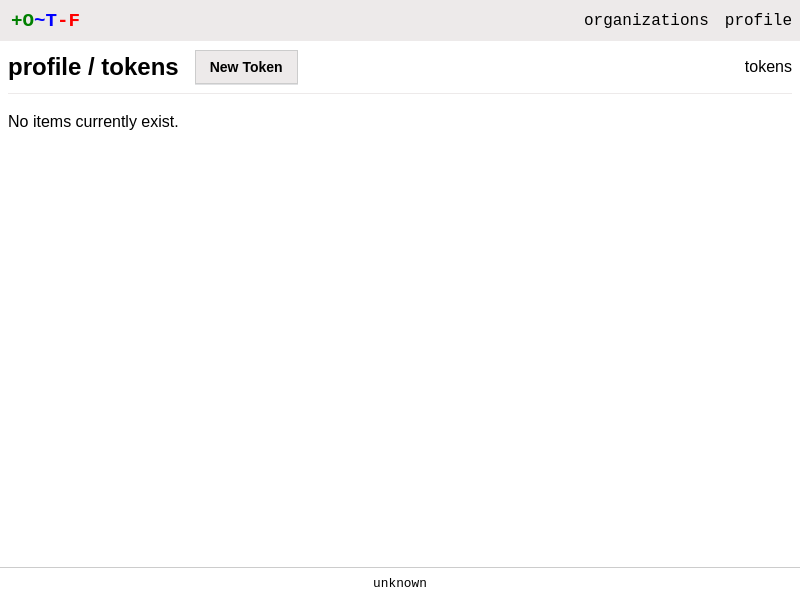
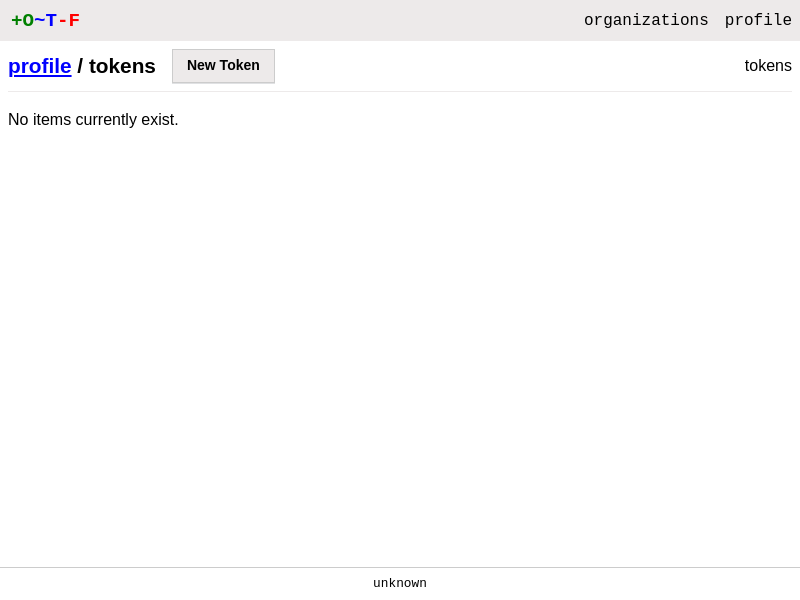
fix: copy content to clipboard without whitespace (#447)
The 'copy to clipboard' functionality when clicking on the clipboard
icon would copy not only the expected content but surrounding white
space and additional content too.

* Added browser-level test
* Credentials in flash messages are now in a `display: block` so that it
is easier to manually copy multi-line JWTs.

Changed region(s): [[0.0, 0.06, 0.375, 0.15], [0.0, 0.18, 0.2188, 0.21], [0.9375, 0.09, 1.0, 0.12]]

diff --git a/internal/http/html/static/js/main.js b/internal/http/html/static/js/main.js
@@ -1,16 +1,17 @@
 window.addEventListener('load', (e) => {
-    // enables copy to clipboard functionality for identifiers
-    const identifiers = document.querySelectorAll('.clipboard-copyable');
+    // enables copy to clipboard functionality
+    const identifiers = document.querySelectorAll('.clipboard-icon');
     identifiers.forEach(function(id) {
         id.addEventListener('click', function(event) {
-            content = event.target.innerHTML;
+            content = event.target.previousElementSibling.innerHTML;
             navigator.clipboard.writeText(content);
+
+            // show notification momentarily but only if there isn't already a notification showing
             notification = event.target.parentNode.querySelector('.copied-notification');
             if (notification === null) {
                 let span = document.createElement('span');
                 span.className = 'copied-notification';
                 span.innerHTML = 'copied!';
-                // show notification momentarily
                 event.target.parentNode.appendChild(span);
                 setTimeout(function() {
                     event.target.parentNode.removeChild(span);

diff --git a/internal/http/html/static/css/main.css b/internal/http/html/static/css/main.css
@@ -185,19 +185,26 @@ a.show-underline {
   color: blue;
 }
 
-/* the identifier for a resource; de-emphasised because it's not
- * usually relevant to the user */
-.identifier {
-  font-family: var(--alt-font);
-  font-size: 0.8rem;
-  color: #5a5a5a;
-}
-
 /* the commit sha for a resource; de-emphasised because it's not
  * usually relevant to the user */
 .commit {
   font-family: var(--alt-font);
   font-size: 0.8rem;
+}
+
+/* the identifier for a resource; de-emphasised because it's not
+ * usually relevant to the user */
+.identifier .copyable-content {
+  font-family: var(--alt-font);
+  font-size: 0.8rem;
+  color: #5a5a5a;
+}
+
+/*
+ * Copy to clipboard functionality
+ */
+.clipboard-icon {
+  cursor: pointer;
 }
 
 /* notification to user that content has been copied to clipboard */
@@ -460,8 +467,12 @@ a.show-underline {
   display: none; /* hide checkbox */
 }
 
-#tags-add-remove-link {
-  font-weight: 500;
+/* credential within flash message */
+.flash-credential .copyable-content {
+  display: block;
+  white-space: pre-wrap;
+  font-family: var(--alt-font);
+  background: var(--faint-grey);
 }
 
 /* mobile-last */

diff --git a/internal/http/html/static/css/workspace_tags.css b/internal/http/html/static/css/workspace_tags.css
@@ -12,3 +12,7 @@
   flex-wrap: wrap;
   gap: 0.3em;
 }
+
+#tags-add-remove-link {
+  font-weight: 500;
+}

diff --git a/internal/integration/agent_token_ui_test.go b/internal/integration/agent_token_ui_test.go
@@ -3,8 +3,11 @@ package integration
 import (
 	"testing"
 
+	cdpbrowser "github.com/chromedp/cdproto/browser"
 	"github.com/chromedp/cdproto/input"
+	"github.com/chromedp/cdproto/runtime"
 	"github.com/chromedp/chromedp"
+	"github.com/stretchr/testify/assert"
 	"github.com/stretchr/testify/require"
 )
 
@@ -16,9 +19,15 @@ func TestAgentTokenUI(t *testing.T) {
 	user, ctx := svc.createUserCtx(t, ctx)
 	org := svc.createOrganization(t, ctx)
 
+	var clipboardContent any
+	clipboardReadPermission := cdpbrowser.PermissionDescriptor{Name: "clipboard-read"}
+	clipboardWritePermission := cdpbrowser.PermissionDescriptor{Name: "clipboard-write"}
+
 	browser := createBrowserCtx(t)
 	okDialog(t, browser)
 	err := chromedp.Run(browser, chromedp.Tasks{
+		cdpbrowser.SetPermission(&clipboardReadPermission, cdpbrowser.PermissionSettingGranted).WithOrigin(""),
+		cdpbrowser.SetPermission(&clipboardWritePermission, cdpbrowser.PermissionSettingGranted).WithOrigin(""),
 		newSession(t, ctx, svc.Hostname(), user.Username, svc.Secret),
 		chromedp.Tasks{
 			// go to org main menu
@@ -37,7 +46,12 @@ func TestAgentTokenUI(t *testing.T) {
 			// submit form
 			chromedp.Click(`//button[text()='Create token']`, chromedp.NodeVisible),
 			screenshot(t),
-			matchRegex(t, ".flash-success", `Created token: [\w-]+\.[\w-]+\.[\w-]+`),
+			matchRegex(t, ".flash-success", `Created token:\s+[\w-]+\.[\w-]+\.[\w-]+`),
+			// click clipboard icon to copy token into clipboard
+			chromedp.Click(`//div[@class='flash flash-success']//img[@class='clipboard-icon']`, chromedp.BySearch),
+			chromedp.Evaluate(`window.navigator.clipboard.readText()`, &clipboardContent, func(p *runtime.EvaluateParams) *runtime.EvaluateParams {
+				return p.WithAwaitPromise(true)
+			}),
 			// delete the token
 			chromedp.Click(`//button[text()='delete']`, chromedp.NodeVisible),
 			screenshot(t),
@@ -45,4 +59,8 @@ func TestAgentTokenUI(t *testing.T) {
 		},
 	})
 	require.NoError(t, err)
+
+	// clipboard should contained agent token (base64 encoded JWT) and no white
+	// space.
+	assert.Regexp(t, `^[\w-]+\.[\w-]+\.[\w-]+$`, clipboardContent)
 }

diff --git a/internal/integration/user_token_ui_test.go b/internal/integration/user_token_ui_test.go
@@ -16,6 +16,7 @@ func TestIntegration_UserTokenUI(t *testing.T) {
 	svc := setup(t, nil)
 	user, userCtx := svc.createUserCtx(t, ctx)
 	browser := createBrowserCtx(t)
+	okDialog(t, browser)
 	err := chromedp.Run(browser, chromedp.Tasks{
 		newSession(t, userCtx, svc.Hostname(), user.Username, svc.Secret),
 		// go to profile
@@ -33,7 +34,11 @@ func TestIntegration_UserTokenUI(t *testing.T) {
 		screenshot(t, "user_token_enter_description"),
 		chromedp.Click(`//button[text()='Create token']`, chromedp.NodeVisible),
 		screenshot(t, "user_token_created"),
-		matchRegex(t, ".flash-success", `Created token: .*`),
+		matchRegex(t, ".flash-success", `Created token:\s+[\w-]+\.[\w-]+\.[\w-]+`),
+		// delete the token
+		chromedp.Click(`//button[text()='delete']`, chromedp.NodeVisible),
+		screenshot(t),
+		matchText(t, ".flash-success", "Deleted token"),
 	})
 	require.NoError(t, err)
 }
